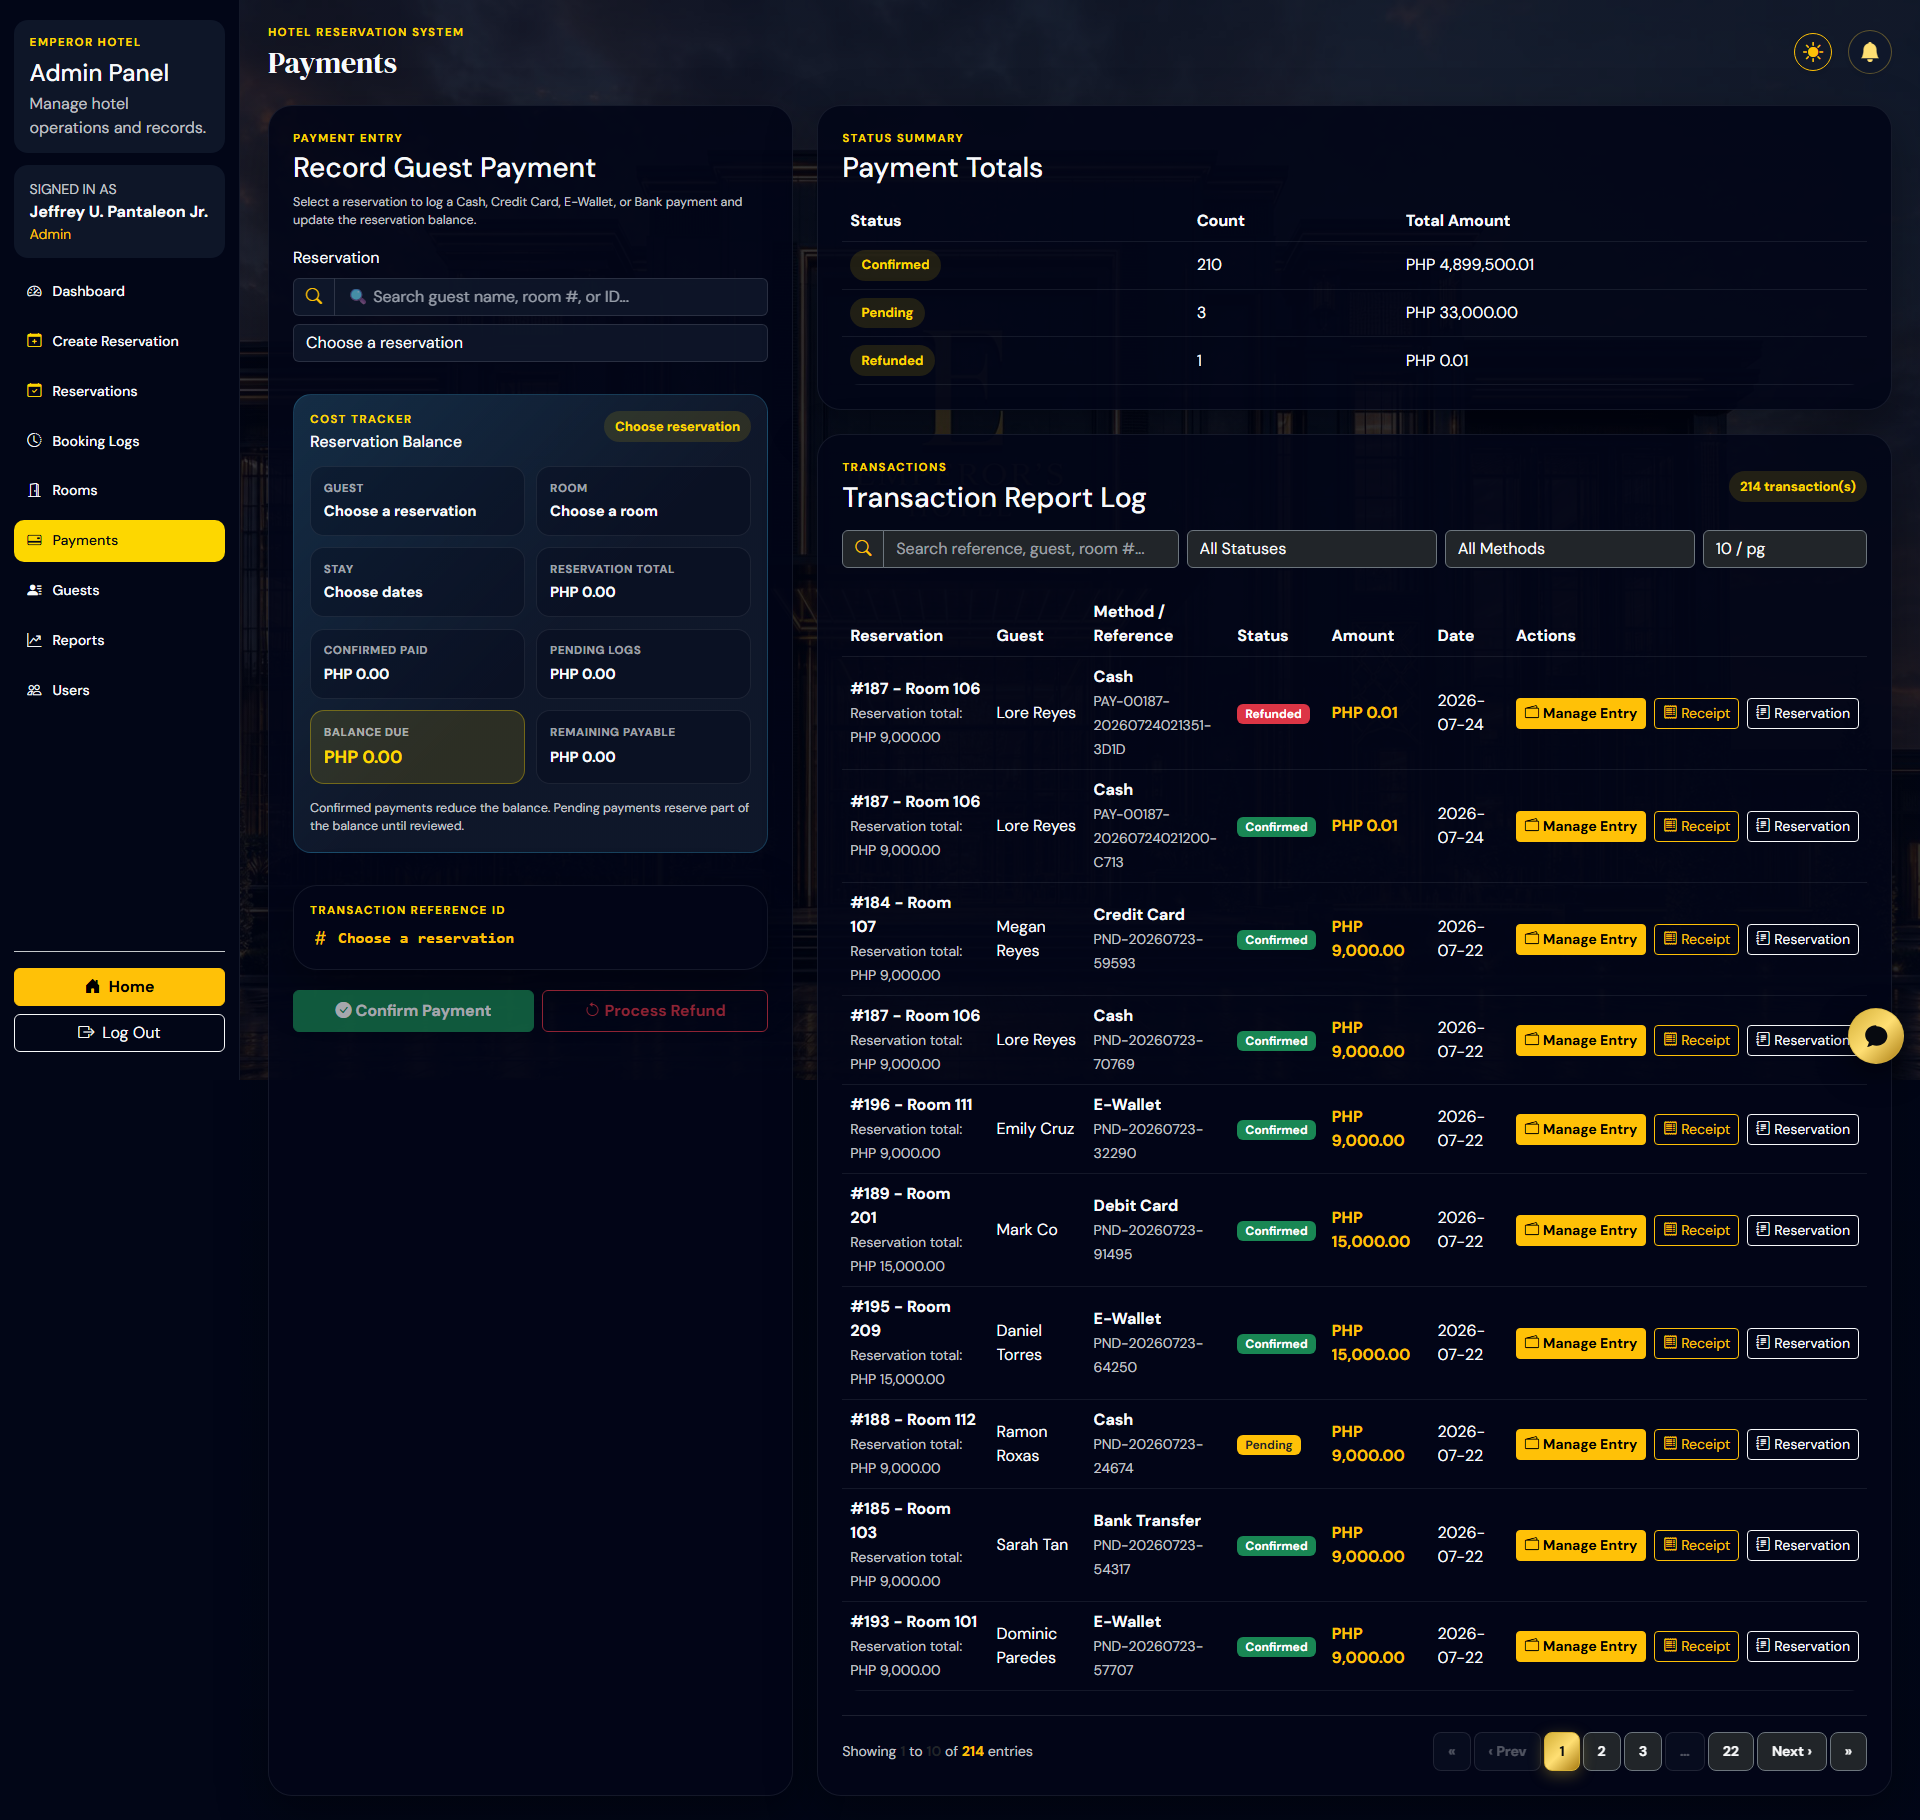
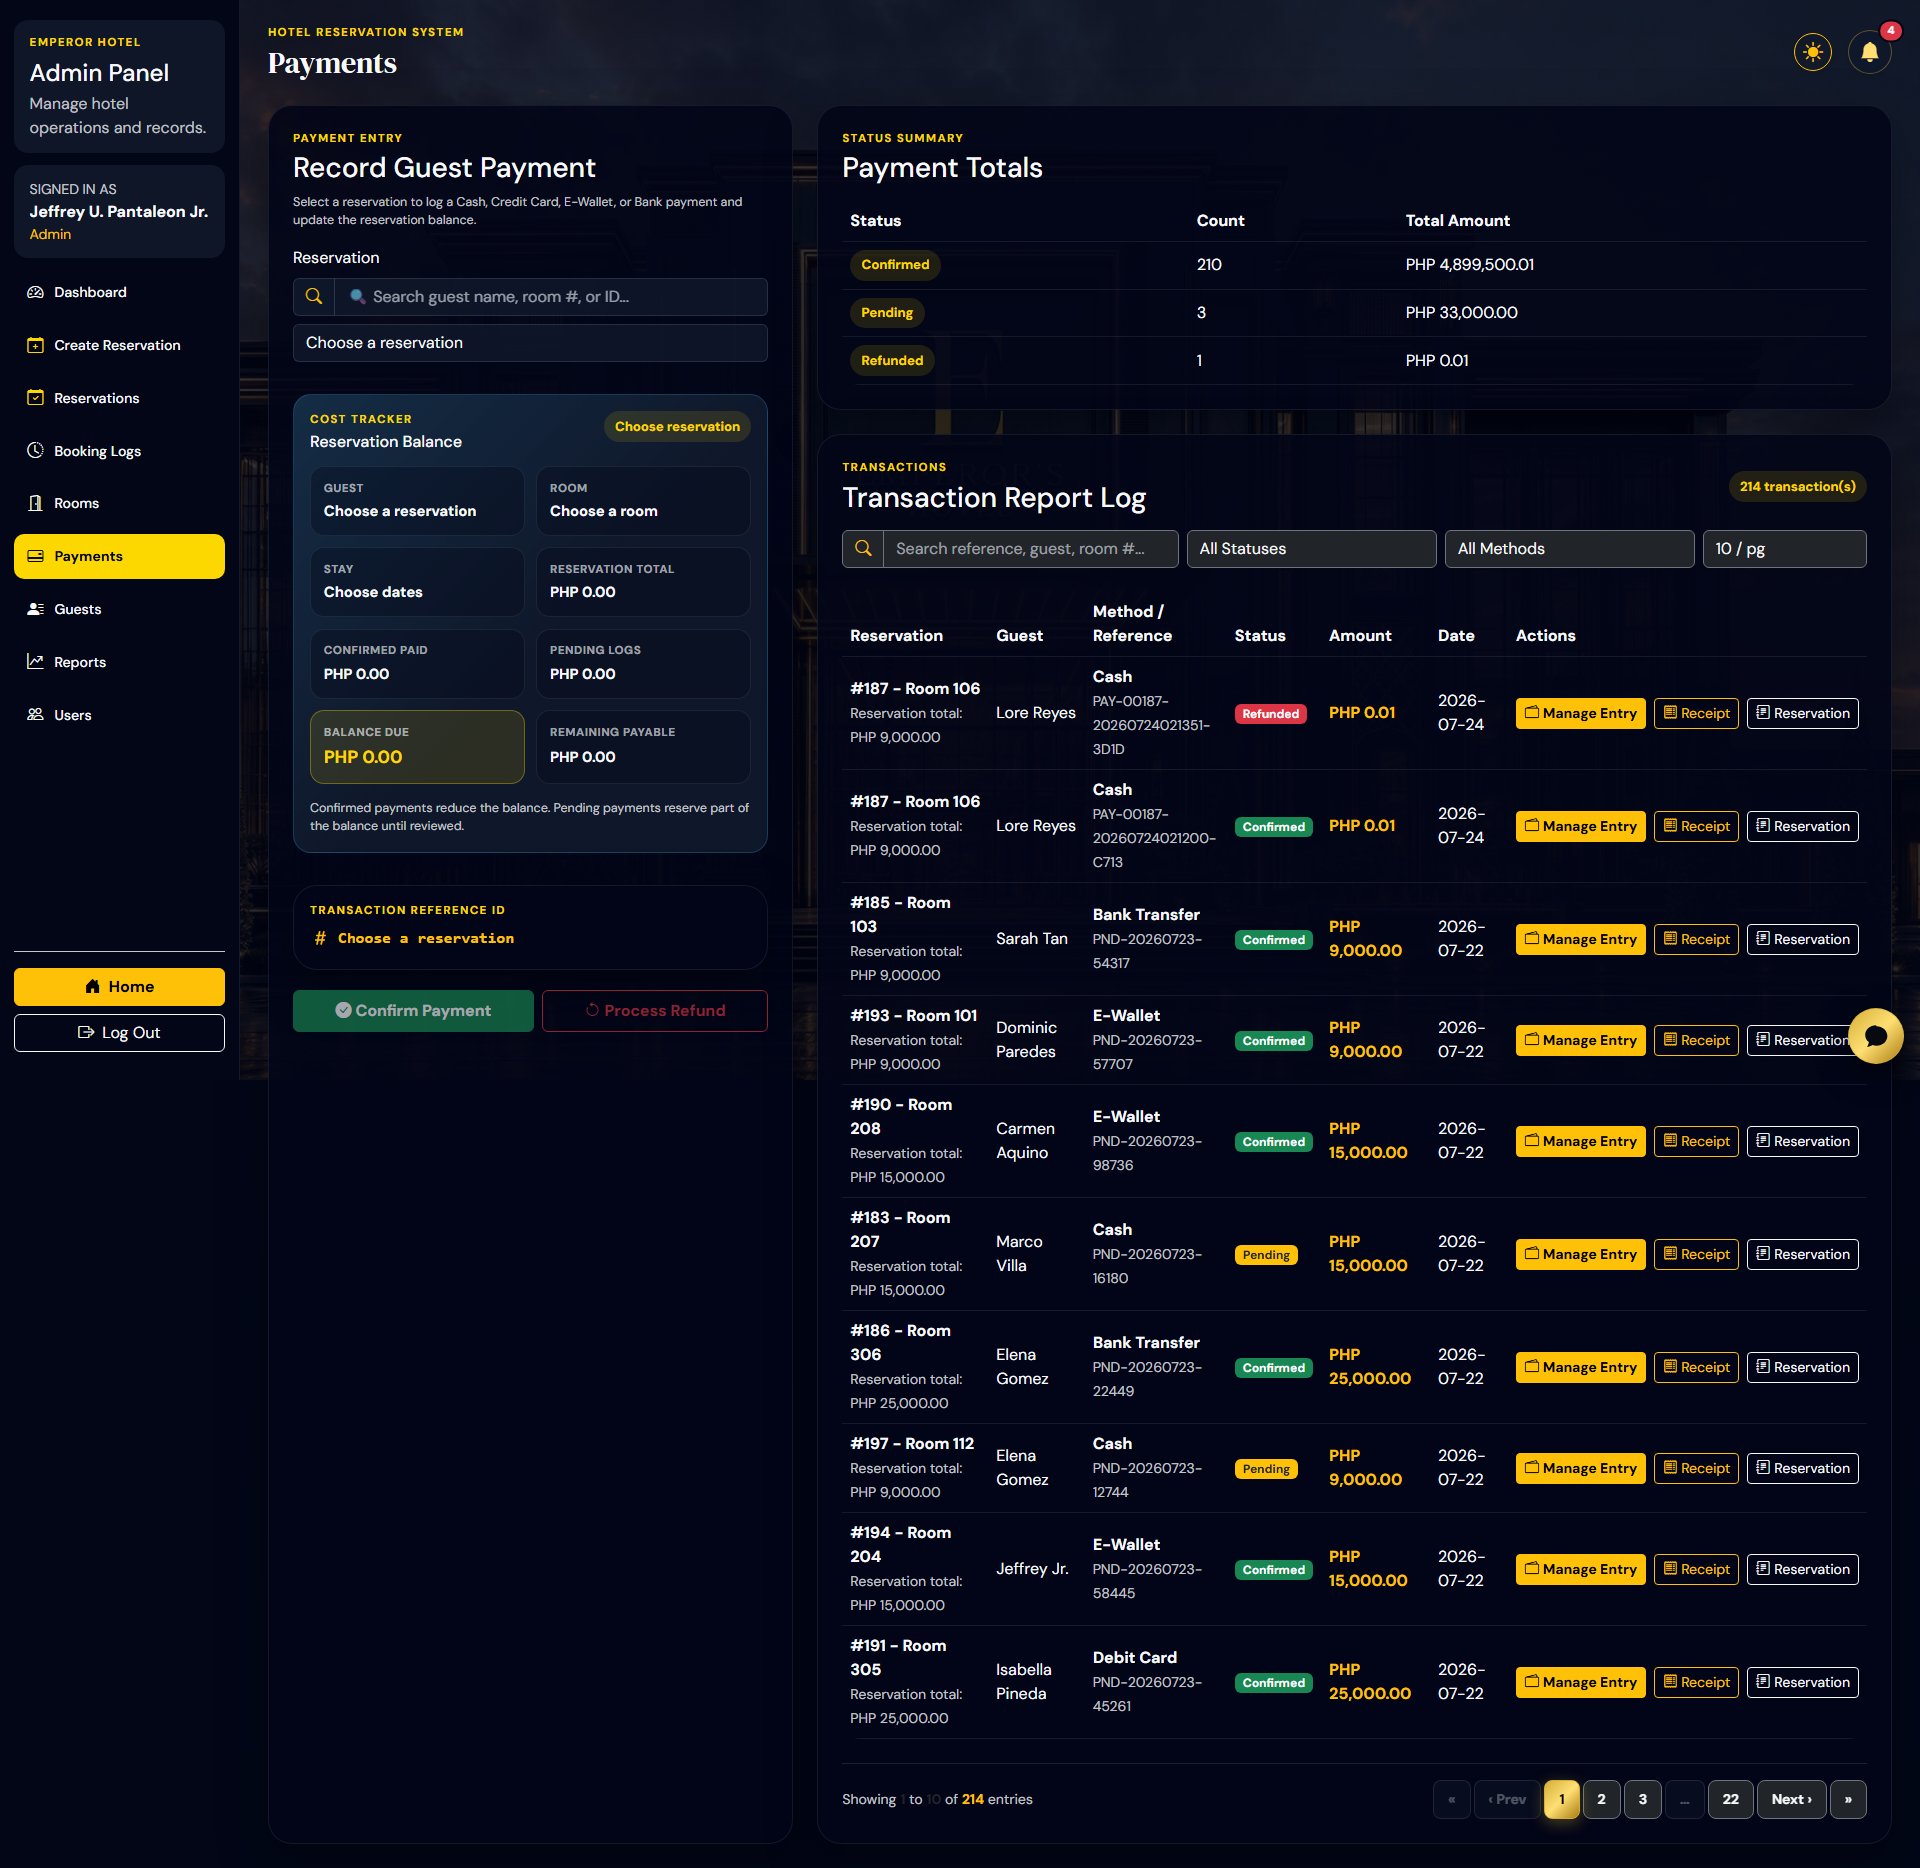
fix: enforce active sidebar navigation gold highlight pill across all admin pages

diff --git a/public/assets/css/app.css b/public/assets/css/app.css
@@ -200,13 +200,28 @@ td.small.text-muted {
     color: #f8fafc;
     font-size: 0.88rem;
     font-weight: 500;
+    text-decoration: none !important;
     transition: background 0.2s ease, color 0.2s ease;
 }
 
+.sidebar-link i {
+    color: inherit;
+    font-size: 1rem;
+    transition: color 0.2s ease;
+}
+
 .sidebar-link:hover,
-.sidebar-link.active {
-    color: #020617;
-    background: #fdd700;
+.sidebar-link.active,
+.sidebar-link:focus {
+    color: #020617 !important;
+    background: #fdd700 !important;
+    font-weight: 700 !important;
+}
+
+.sidebar-link:hover i,
+.sidebar-link.active i,
+.sidebar-link:focus i {
+    color: #020617 !important;
 }
 
 .content-panel {
@@ -876,19 +891,24 @@ body.light-mode .sidebar-actions {
 
 body.light-mode .sidebar-link {
     color: #334155 !important;
+    text-decoration: none !important;
 }
 
 body.light-mode .sidebar-link i {
-    color: #b45309 !important;
+    color: #b45309;
 }
 
 body.light-mode .sidebar-link:hover,
-body.light-mode .sidebar-link.active {
+body.light-mode .sidebar-link.active,
+body.light-mode .sidebar-link:focus {
     color: #0f172a !important;
-    background: #fef08a !important;
+    background: #fdd700 !important;
+    font-weight: 700 !important;
 }
 
-body.light-mode .sidebar-link.active i {
+body.light-mode .sidebar-link:hover i,
+body.light-mode .sidebar-link.active i,
+body.light-mode .sidebar-link:focus i {
     color: #0f172a !important;
 }
 

diff --git a/public/includes/layout.php b/public/includes/layout.php
@@ -27,7 +27,7 @@ function renderHeader(string $title, array $extraStylesheets = [], string $bodyC
     <link rel="alternate icon" type="image/png" href="../assets/images/branding/emperors-hotel-logo.svg">
     <link rel="shortcut icon" href="../favicon.ico">
     <link rel="apple-touch-icon" href="../assets/images/branding/emperors-hotel-logo.svg">
-    <link href="../assets/css/app.css" rel="stylesheet">
+    <link href="../assets/css/app.css?v=20260724-active-sidebar" rel="stylesheet">
     {$extraStylesheetLinks}
     <script>
         (function() {
